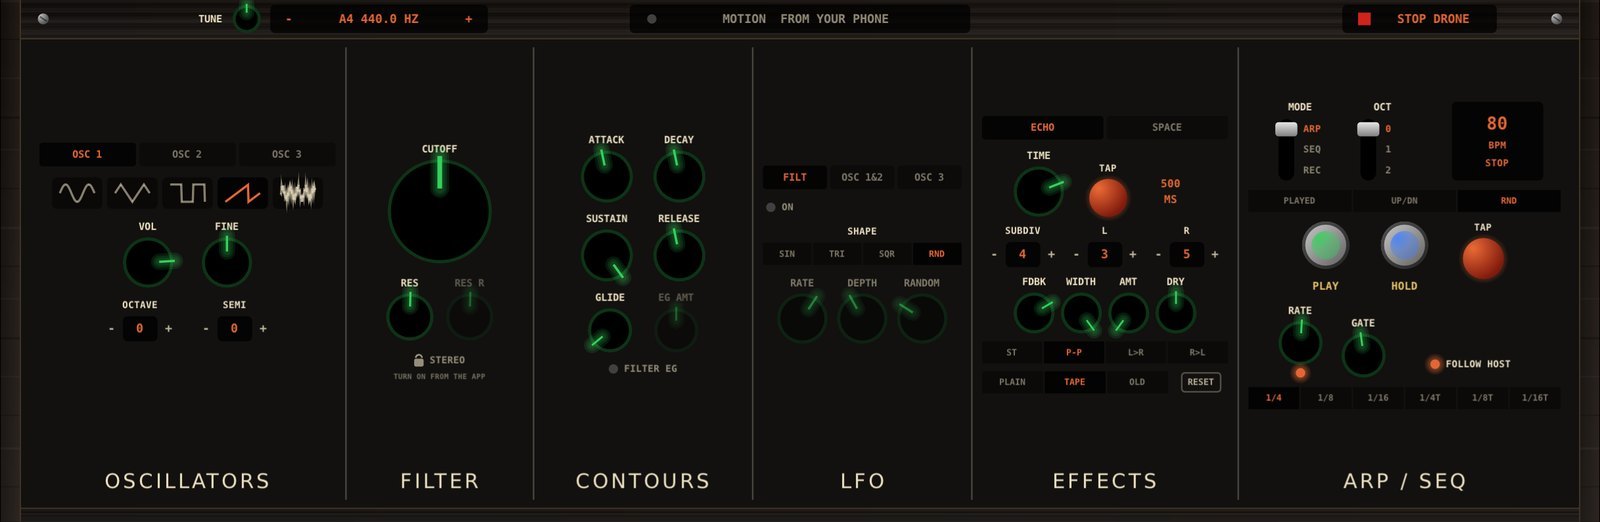
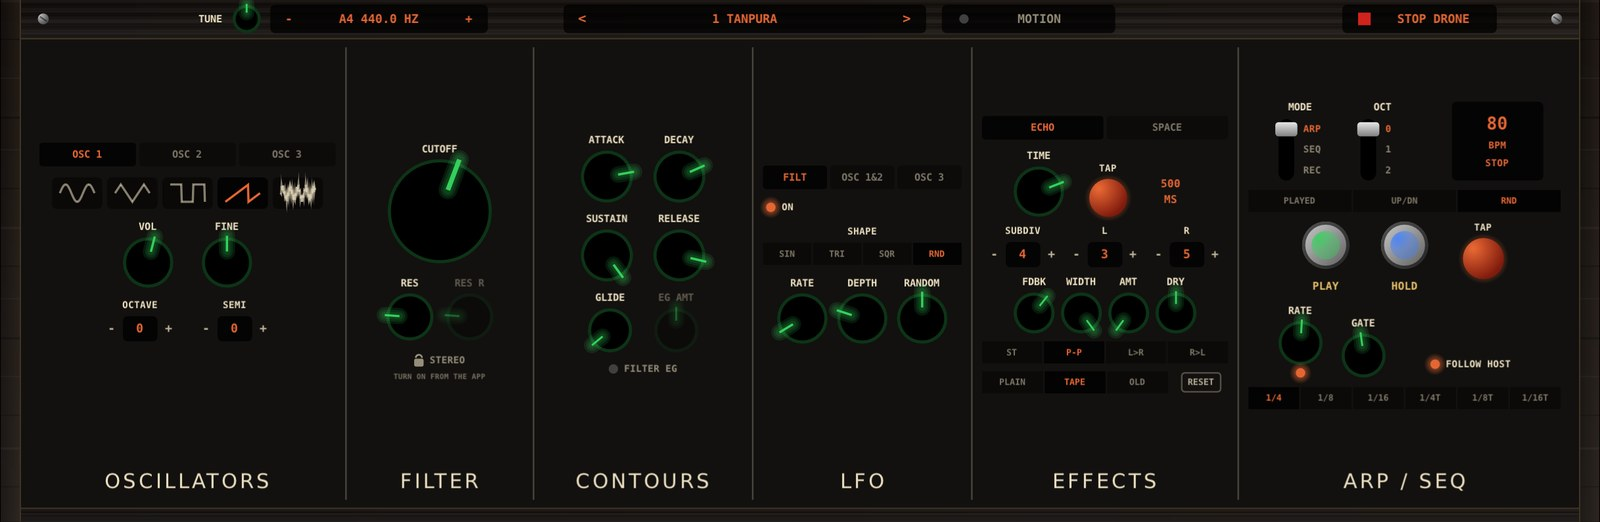
Windows plugin 0.4.0: 16 presets in the top bar, and a new panel shot

diff --git a/index.html b/index.html
@@ -103,11 +103,11 @@
 
     <section id="windows">
         <h2>DroneSynth for Windows</h2>
-        <p>A free preview of DroneSynth for 64-bit Windows: a <strong>VST3</strong> and <strong>CLAP</strong> plugin and a <strong>standalone app</strong>, with the same hardware panel as the iPad and Mac plugin and an ARP/SEQ that follows your DAW's tempo.</p>
+        <p>A free preview of DroneSynth for 64-bit Windows: a <strong>VST3</strong> and <strong>CLAP</strong> plugin and a <strong>standalone app</strong>, with the same hardware panel as the iPad and Mac plugin, 16 presets to show what it can do, and an ARP/SEQ that follows your DAW's tempo.</p>
         <img src="images/desktop-plugin.jpg" alt="The DroneSynth plugin for Windows: oscillators, filter, contours, LFO, effects and ARP/SEQ on one panel" loading="lazy" class="inline-shot">
         <p class="download-row">
-            <a class="button" href="https://github.com/sufystudios/DroneSynth-Website/releases/download/windows-plugin-0.3.1/DroneSynth-Windows.zip">Download for Windows (.zip)</a>
-            <span class="muted">Version 0.3.1 · 3.5 MB · Windows 10 or 11, 64-bit</span>
+            <a class="button" href="https://github.com/sufystudios/DroneSynth-Website/releases/download/windows-plugin-0.4.0/DroneSynth-Windows.zip">Download for Windows (.zip)</a>
+            <span class="muted">Version 0.4.0 · 3.5 MB · Windows 10 or 11, 64-bit</span>
         </p>
 
         <h3>1. Install</h3>
@@ -130,6 +130,7 @@
 
         <h3>Using the panel</h3>
         <ul>
+            <li><strong>Presets:</strong> click ‹ and › in the top bar (or click or scroll over the name) to step through 16 sounds — Tanpura, Deep Space, Glass, Pulse, Drum, Bell and more. Each sets every knob, so it's a good way to learn what the synth can do; your DAW saves the one you chose, and any changes, with the project.</li>
             <li><strong>Knobs:</strong> drag up or down. Hold <strong>Shift</strong> for fine adjustment, scroll over a knob to nudge it, and double-click to reset it.</li>
             <li><strong>OSC 1 / 2 / 3</strong>, the three <strong>LFOs</strong> and <strong>ECHO / SPACE</strong> share their columns: click the small tabs to switch.</li>
             <li><strong>ARP / SEQ:</strong> set MODE to ARP, press PLAY and hold some keys. With <strong>FOLLOW HOST</strong> lit, it locks to your DAW's tempo while the transport plays. In SEQ mode, REC records a pattern as you play; patterns are saved with your project.</li>
